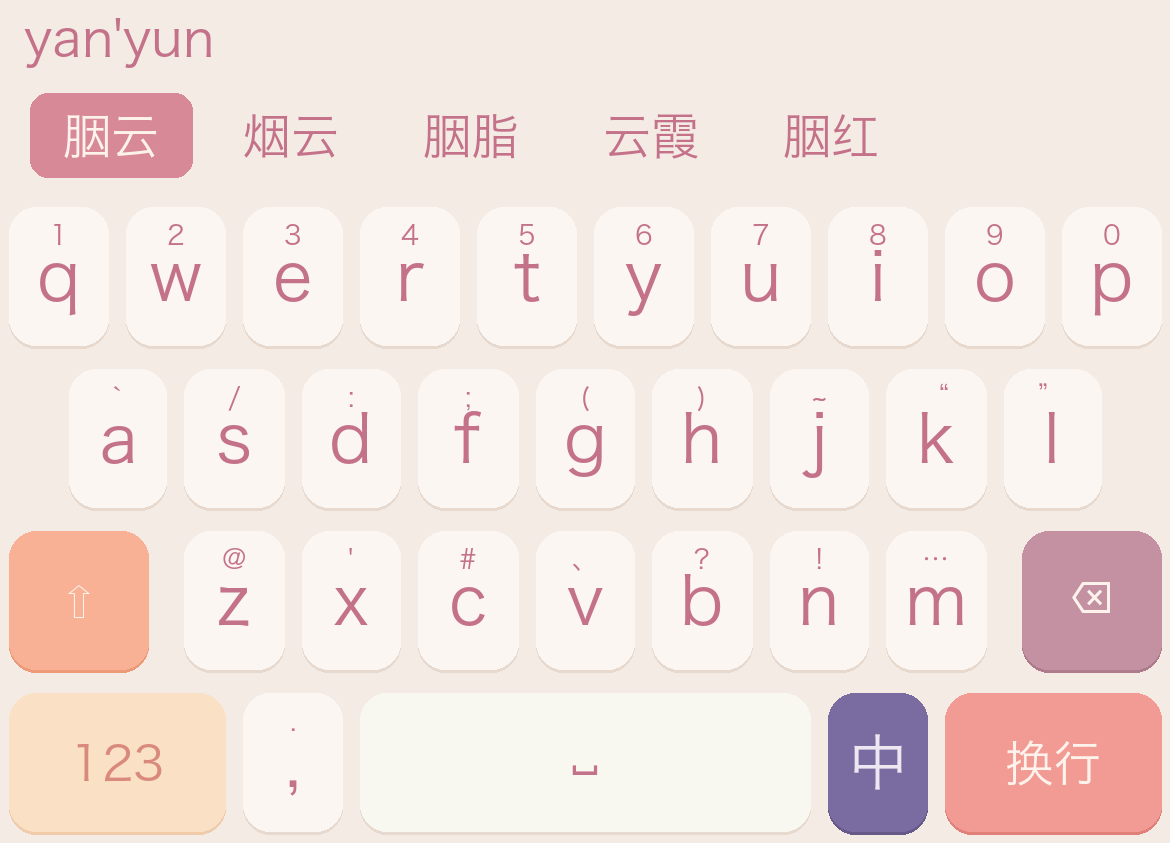
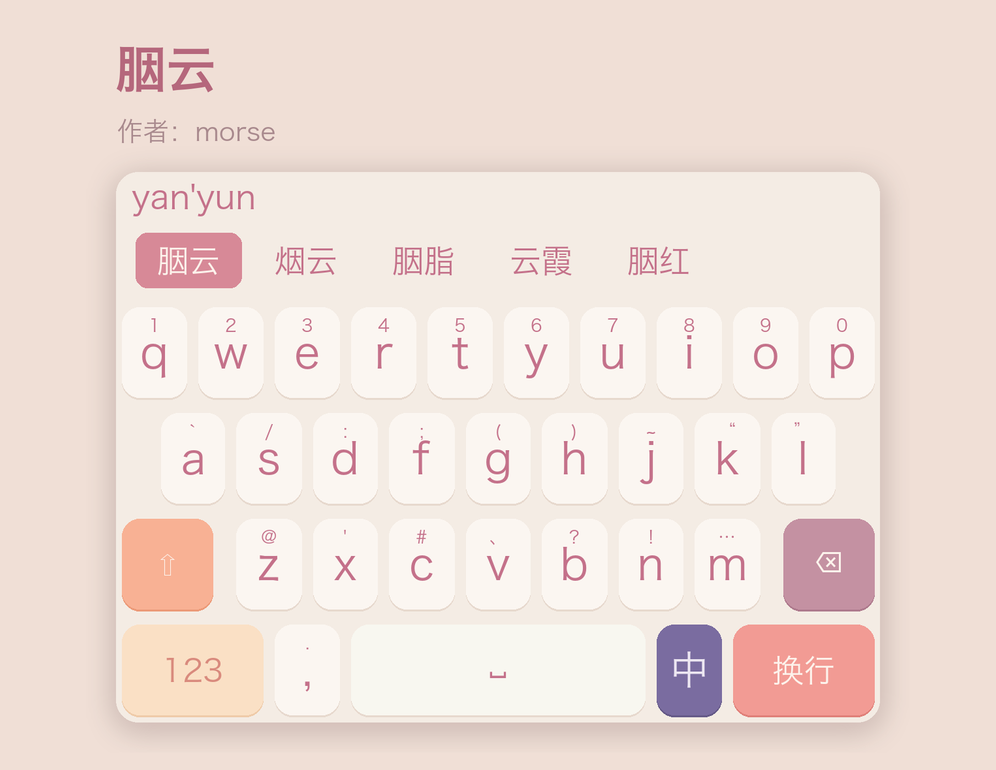
feat: 调整胭云与莫吉托的预览图

diff --git a/莫吉托/scripts/gen_demo.py b/莫吉托/scripts/gen_demo.py
@@ -5,6 +5,8 @@
 布局、宽度、配色、键面文字全部取自皮肤本身，
 所以改了 jsonnet 重新编译后跑一遍本脚本，预览图就跟着更新，不会对不上。
 
+出图分两步：先按皮肤画出键盘，再贴到带皮肤名和作者名的背景板上（见「预览板」一节）。
+
     cd Skins/莫吉托 && make compile && python3 scripts/gen_demo.py
 
 依赖：Pillow（pip3 install Pillow）
@@ -16,7 +18,7 @@ import json
 import sys
 from pathlib import Path
 
-from PIL import Image, ImageDraw, ImageFont
+from PIL import Image, ImageDraw, ImageFilter, ImageFont
 
 SKIN_DIR = Path(__file__).resolve().parent.parent
 SOURCE = SKIN_DIR / "light" / "pinyinPortrait.yaml"
@@ -205,12 +207,69 @@ def draw_keyboard(skin: dict) -> Image.Image:
     return img
 
 
+# ===== 预览板 =====
+# 键盘截图本身是长条形，直接当 demo.png 用，在应用里会被裁掉一部分。
+# 统一贴到 996x770 的背景板上（与其它皮肤的 demo 同比例），顶部标皮肤名和作者。
+BOARD_SIZE = (996, 770)
+BOARD_SCALE = 2          # 板子也 2 倍渲染，最后缩回，文字边缘更干净
+BOARD_BACKGROUND = "#DCE8C6"
+TITLE = "莫吉托"
+TITLE_COLOR = "#4F7A4A"
+AUTHOR = "作者：morse"
+AUTHOR_COLOR = "#7C9A6E"
+SHADOW = (70, 110, 60, 70)
+KEYBOARD_WIDTH = 764     # 键盘预览贴在板上的宽度，高度按原图比例算
+KEYBOARD_TOP = 172
+KEYBOARD_RADIUS = 22
+
+
+def board_font(size: int, bold: bool = False) -> ImageFont.FreeTypeFont:
+    path = Path(CJK_FONTS[0])
+    if path.exists():
+        try:
+            return ImageFont.truetype(str(path), size, index=2 if bold else 0)
+        except OSError:
+            pass
+    return load_font(size)
+
+
+def compose_board(keyboard: Image.Image) -> Image.Image:
+    w, h = (v * BOARD_SCALE for v in BOARD_SIZE)
+    board = Image.new("RGB", (w, h), BOARD_BACKGROUND)
+    draw = ImageDraw.Draw(board)
+
+    left = (BOARD_SIZE[0] - KEYBOARD_WIDTH) // 2 * BOARD_SCALE
+    draw.text((left, 44 * BOARD_SCALE), TITLE, font=board_font(50 * BOARD_SCALE, True), fill=TITLE_COLOR)
+    draw.text((left + 2, 118 * BOARD_SCALE), AUTHOR, font=board_font(26 * BOARD_SCALE), fill=AUTHOR_COLOR)
+
+    kw = KEYBOARD_WIDTH * BOARD_SCALE
+    kh = round(kw * keyboard.height / keyboard.width)
+    keyboard = keyboard.resize((kw, kh), Image.LANCZOS)
+    mask = Image.new("L", (kw, kh), 0)
+    ImageDraw.Draw(mask).rounded_rectangle((0, 0, kw - 1, kh - 1), KEYBOARD_RADIUS * BOARD_SCALE, fill=255)
+
+    # 柔和投影，让键盘从背景色上浮起来
+    pad = 30 * BOARD_SCALE
+    shadow = Image.new("RGBA", (kw + pad * 2, kh + pad * 2), (0, 0, 0, 0))
+    ImageDraw.Draw(shadow).rounded_rectangle(
+        (pad, pad + 6 * BOARD_SCALE, pad + kw, pad + kh + 6 * BOARD_SCALE),
+        KEYBOARD_RADIUS * BOARD_SCALE,
+        fill=SHADOW,
+    )
+    shadow = shadow.filter(ImageFilter.GaussianBlur(14 * BOARD_SCALE))
+    top = KEYBOARD_TOP * BOARD_SCALE
+    board.paste(shadow, (left - pad, top - pad), shadow)
+    board.paste(keyboard, (left, top), mask)
+    return board.resize(BOARD_SIZE, Image.LANCZOS)
+
+
 def main() -> int:
     if not SOURCE.exists():
         print(f"找不到 {SOURCE}，请先执行 make compile", file=sys.stderr)
         return 1
     # 产物是 JSON（JSON 是 YAML 的子集），直接用 json 读，不必依赖 PyYAML
-    draw_keyboard(json.loads(SOURCE.read_text(encoding="utf-8"))).save(OUTPUT)
+    keyboard = draw_keyboard(json.loads(SOURCE.read_text(encoding="utf-8")))
+    compose_board(keyboard).save(OUTPUT)
     print(f"已生成 {OUTPUT.relative_to(SKIN_DIR)}")
     return 0
 

diff --git a/胭云/scripts/gen_demo.py b/胭云/scripts/gen_demo.py
@@ -5,6 +5,8 @@
 布局、宽度、配色、键面文字全部取自皮肤本身，
 所以改了 jsonnet 重新编译后跑一遍本脚本，预览图就跟着更新，不会对不上。
 
+出图分两步：先按皮肤画出键盘，再贴到带皮肤名和作者名的背景板上（见「预览板」一节）。
+
     cd Skins/胭云 && make compile && python3 scripts/gen_demo.py
 
 依赖：Pillow（pip3 install Pillow）
@@ -16,7 +18,7 @@ import json
 import sys
 from pathlib import Path
 
-from PIL import Image, ImageDraw, ImageFont
+from PIL import Image, ImageDraw, ImageFilter, ImageFont
 
 SKIN_DIR = Path(__file__).resolve().parent.parent
 SOURCE = SKIN_DIR / "light" / "pinyinPortrait.yaml"
@@ -205,12 +207,69 @@ def draw_keyboard(skin: dict) -> Image.Image:
     return img
 
 
+# ===== 预览板 =====
+# 键盘截图本身是长条形，直接当 demo.png 用，在应用里会被裁掉一部分。
+# 统一贴到 996x770 的背景板上（与其它皮肤的 demo 同比例），顶部标皮肤名和作者。
+BOARD_SIZE = (996, 770)
+BOARD_SCALE = 2          # 板子也 2 倍渲染，最后缩回，文字边缘更干净
+BOARD_BACKGROUND = "#F0DFD6"
+TITLE = "胭云"
+TITLE_COLOR = "#B5677C"
+AUTHOR = "作者：morse"
+AUTHOR_COLOR = "#A98A8E"
+SHADOW = (150, 95, 105, 70)
+KEYBOARD_WIDTH = 764     # 键盘预览贴在板上的宽度，高度按原图比例算
+KEYBOARD_TOP = 172
+KEYBOARD_RADIUS = 22
+
+
+def board_font(size: int, bold: bool = False) -> ImageFont.FreeTypeFont:
+    path = Path(CJK_FONTS[0])
+    if path.exists():
+        try:
+            return ImageFont.truetype(str(path), size, index=2 if bold else 0)
+        except OSError:
+            pass
+    return load_font(size)
+
+
+def compose_board(keyboard: Image.Image) -> Image.Image:
+    w, h = (v * BOARD_SCALE for v in BOARD_SIZE)
+    board = Image.new("RGB", (w, h), BOARD_BACKGROUND)
+    draw = ImageDraw.Draw(board)
+
+    left = (BOARD_SIZE[0] - KEYBOARD_WIDTH) // 2 * BOARD_SCALE
+    draw.text((left, 44 * BOARD_SCALE), TITLE, font=board_font(50 * BOARD_SCALE, True), fill=TITLE_COLOR)
+    draw.text((left + 2, 118 * BOARD_SCALE), AUTHOR, font=board_font(26 * BOARD_SCALE), fill=AUTHOR_COLOR)
+
+    kw = KEYBOARD_WIDTH * BOARD_SCALE
+    kh = round(kw * keyboard.height / keyboard.width)
+    keyboard = keyboard.resize((kw, kh), Image.LANCZOS)
+    mask = Image.new("L", (kw, kh), 0)
+    ImageDraw.Draw(mask).rounded_rectangle((0, 0, kw - 1, kh - 1), KEYBOARD_RADIUS * BOARD_SCALE, fill=255)
+
+    # 柔和投影，让键盘从背景色上浮起来
+    pad = 30 * BOARD_SCALE
+    shadow = Image.new("RGBA", (kw + pad * 2, kh + pad * 2), (0, 0, 0, 0))
+    ImageDraw.Draw(shadow).rounded_rectangle(
+        (pad, pad + 6 * BOARD_SCALE, pad + kw, pad + kh + 6 * BOARD_SCALE),
+        KEYBOARD_RADIUS * BOARD_SCALE,
+        fill=SHADOW,
+    )
+    shadow = shadow.filter(ImageFilter.GaussianBlur(14 * BOARD_SCALE))
+    top = KEYBOARD_TOP * BOARD_SCALE
+    board.paste(shadow, (left - pad, top - pad), shadow)
+    board.paste(keyboard, (left, top), mask)
+    return board.resize(BOARD_SIZE, Image.LANCZOS)
+
+
 def main() -> int:
     if not SOURCE.exists():
         print(f"找不到 {SOURCE}，请先执行 make compile", file=sys.stderr)
         return 1
     # 产物是 JSON（JSON 是 YAML 的子集），直接用 json 读，不必依赖 PyYAML
-    draw_keyboard(json.loads(SOURCE.read_text(encoding="utf-8"))).save(OUTPUT)
+    keyboard = draw_keyboard(json.loads(SOURCE.read_text(encoding="utf-8")))
+    compose_board(keyboard).save(OUTPUT)
     print(f"已生成 {OUTPUT.relative_to(SKIN_DIR)}")
     return 0
 
